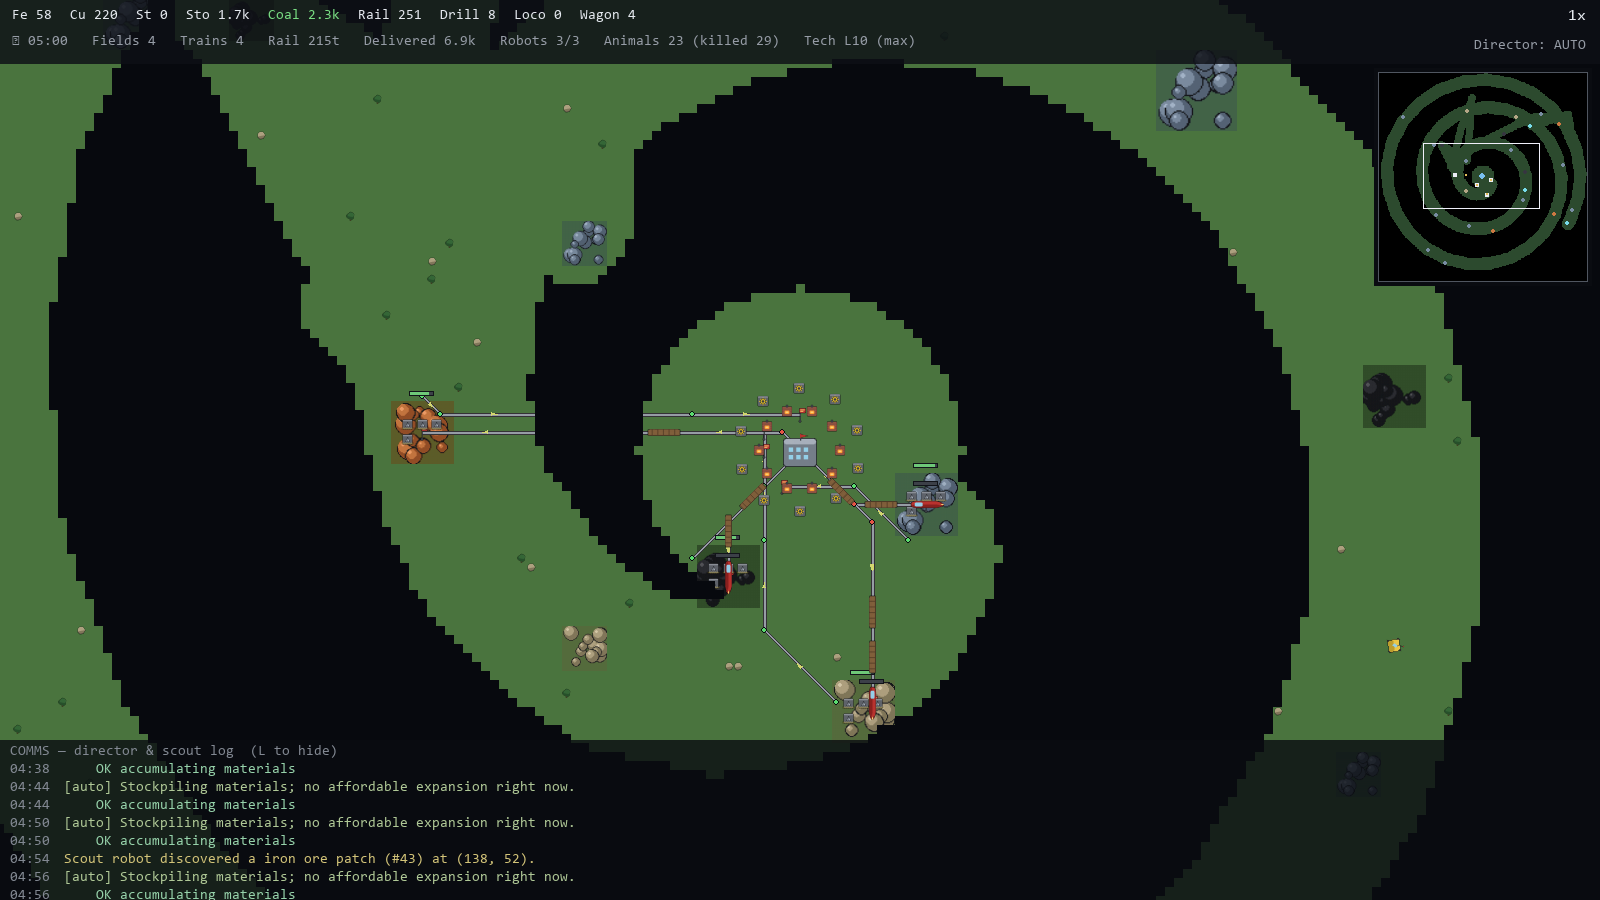
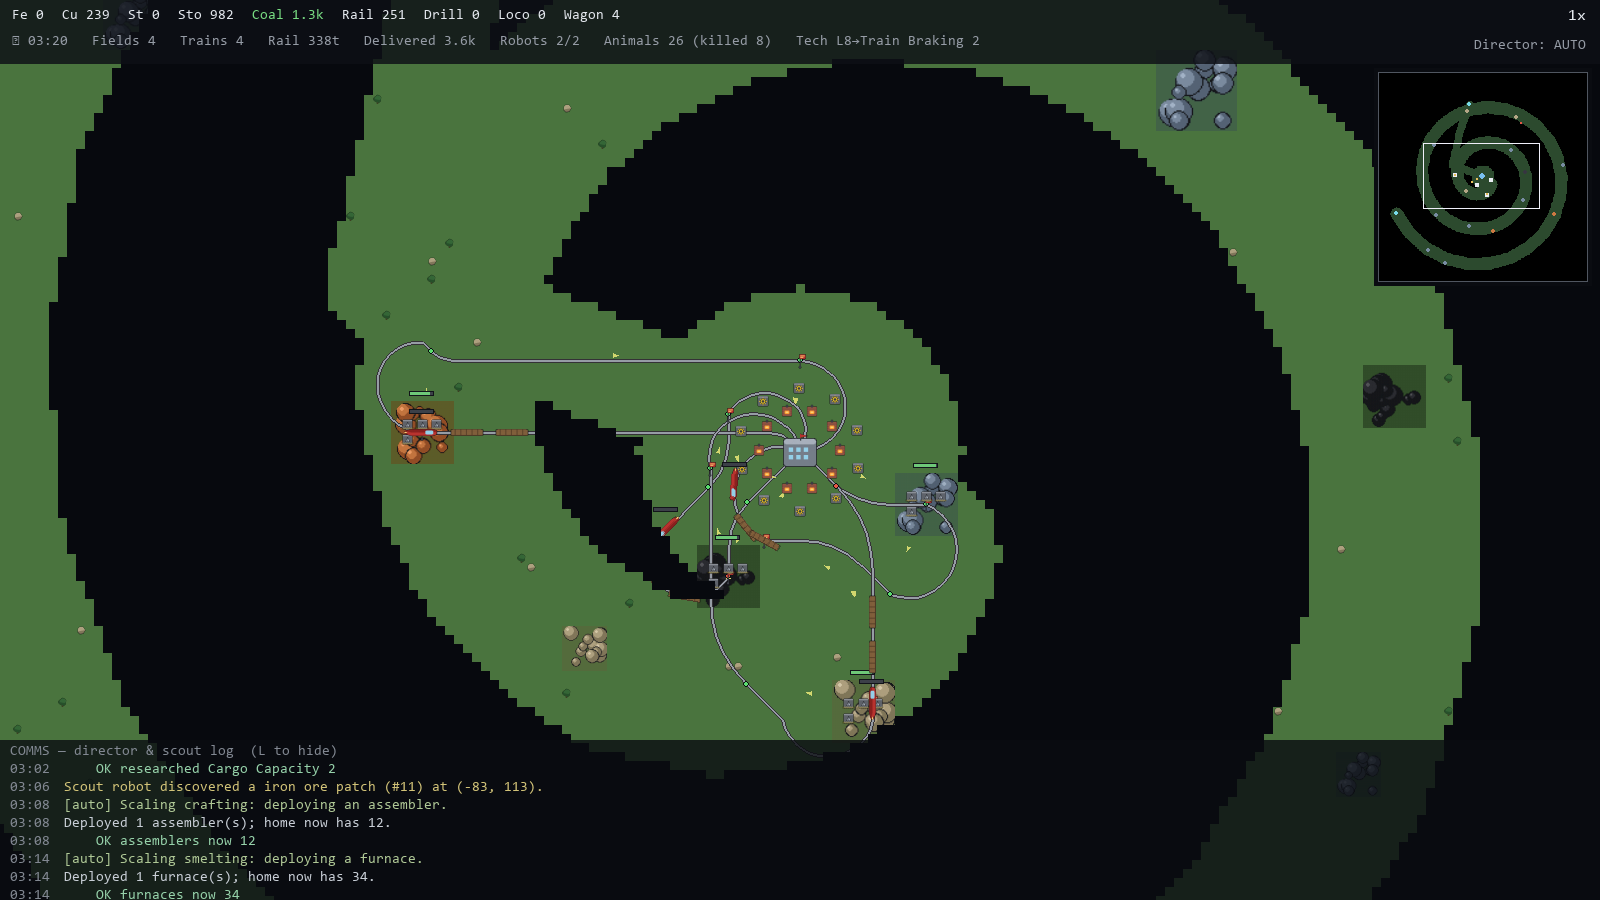
Smooth curved rail: rounded corners + wide U-turn loops, continuous flow
Trains were snapping direction at hard lattice corners and teleporting between
the out/return lanes. Now each field link is one continuous smooth loop:
- All corners are filleted with quadratic Beziers (CURVE_RADIUS, no sharp angles).
- The two one-way lanes are joined by 180-degree arc U-turns at the field and at
  home (LANE_OFFSET widened to 10 so the loops are gentle), with tangents aligned
  to the lanes.
- Leg A = home U-turn + out lane (ends at the load stop); leg B = field U-turn +
  return lane (ends at the unload stop). Leg B starts exactly where leg A ends and
  vice-versa, so motion is continuous - no teleport, no instant facing change.

Rail edges now carry dense curved polylines (rail._add_edge_poly /
_polyline_to_edges split a smooth polyline into per-edge blocks). The train
follower interpolates along the fine polyline, so position AND heading vary
smoothly; cars articulate around the bends. Block-mutex collision model unchanged.

18 tests pass (trains still deliver through the curved loops). Refreshed screenshot.

diff --git a/autofactorio/engine/rail.py b/autofactorio/engine/rail.py
@@ -128,26 +128,32 @@ class RailNetwork:
         # compress collinear runs into corners
         return _corners(pts)
 
-    def _build_lane(self, waypoints: list[tuple[int, int]]) -> list[int]:
-        """Create directed edges along corners, split so no edge exceeds the
-        signal spacing (keeps blocks train-length-bounded). Returns edge ids."""
+    def _add_edge_poly(self, a: int, b: int, points: list[tuple[float, float]]) -> int:
+        pts = [tuple(map(float, p)) for p in points]
+        length = sum(math.dist(pts[i - 1], pts[i]) for i in range(1, len(pts)))
+        eid = self._eid
+        self._eid += 1
+        self.edges[eid] = RailEdge(eid, a, b, pts, length)
+        self.out_edges[a].append(eid)
+        return eid
+
+    def _polyline_to_edges(self, poly: list[tuple[float, float]]) -> list[int]:
+        """Chop a dense (possibly curved) polyline into directed edges of about
+        SIGNAL_SPACING arc-length, one block per edge. Returns edge ids."""
         edge_ids: list[int] = []
-        max_len = float(balance.SIGNAL_SPACING)
-        prev_node = self.add_node(*waypoints[0])
-        for i in range(1, len(waypoints)):
-            x0, y0 = self.nodes[prev_node]
-            x1, y1 = waypoints[i]
-            seg_len = math.dist((x0, y0), (x1, y1))
-            steps = max(1, int(math.ceil(seg_len / max_len)))
-            for s in range(1, steps + 1):
-                t = s / steps
-                nx = _snap(round(x0 + (x1 - x0) * t), balance.RAIL_GRID)
-                ny = _snap(round(y0 + (y1 - y0) * t), balance.RAIL_GRID)
-                nxt = self.add_node(nx, ny)
-                if nxt == prev_node:
-                    continue
-                edge_ids.append(self._add_edge(prev_node, nxt))
-                prev_node = nxt
+        start = self.add_node(*poly[0])
+        chunk = [poly[0]]
+        acc = 0.0
+        for i in range(1, len(poly)):
+            acc += math.dist(poly[i - 1], poly[i])
+            chunk.append(poly[i])
+            if acc >= balance.SIGNAL_SPACING and i < len(poly) - 1:
+                end = self.add_node(*poly[i])
+                edge_ids.append(self._add_edge_poly(start, end, chunk))
+                start, chunk, acc = end, [poly[i]], 0.0
+        if len(chunk) >= 2:
+            end = self.add_node(*poly[-1])
+            edge_ids.append(self._add_edge_poly(start, end, chunk))
         return edge_ids
 
     def _signalize(self, edge_ids: list[int], chain_at_start: bool = False) -> None:
@@ -162,34 +168,44 @@ class RailNetwork:
             self.signals.setdefault(e.a, Signal(e.a, kind, self.node_pos(e.a)))
 
     def build_link(self, home: tuple[int, int], field_pt: tuple[int, int]):
-        """Build two one-way lanes between home and a field.
+        """Build one continuous, smooth, collision-free loop to a field.
 
-        Returns (out_edges, ret_edges, load_station, unload_station). The train
-        loop is: home -> out -> load(field) -> ret -> unload(home) -> repeat.
+        The loop has two one-way lanes joined by wide U-turns at each end, with all
+        corners rounded so trains never turn sharp or snap direction. Two legs:
+          A: home -> (home U-turn) -> out lane -> field   (ends at the LOAD stop)
+          B: field -> (field U-turn) -> return lane -> home (ends at the UNLOAD stop)
+        Because leg B starts exactly where leg A ends (and vice-versa), motion is
+        continuous - no teleport between legs.
+
+        Returns (legA_edges, legB_edges, load_station, unload_station).
         """
         g = balance.RAIL_GRID
-        # perpendicular offset so the return lane runs parallel to the outbound
         dx, dy = field_pt[0] - home[0], field_pt[1] - home[1]
         d = math.hypot(dx, dy) or 1.0
+        ux, uy = dx / d, dy / d                     # unit home->field
+        px, py = -uy, ux                            # perpendicular unit
         off = balance.LANE_OFFSET
-        px = _snap(round(-dy / d * off), g)
-        py = _snap(round(dx / d * off), g)
 
         home_a = (_snap(home[0], g), _snap(home[1], g))
         field_a = (_snap(field_pt[0], g), _snap(field_pt[1], g))
-        home_b = (home_a[0] + px, home_a[1] + py)
-        field_b = (field_a[0] + px, field_a[1] + py)
+        home_b = (_snap(home_a[0] + px * off, g), _snap(home_a[1] + py * off, g))
+        field_b = (_snap(field_a[0] + px * off, g), _snap(field_a[1] + py * off, g))
 
-        out_wp = self._lattice_path(home_a, field_a)
-        ret_wp = self._lattice_path(field_b, home_b)
-        out_edges = self._build_lane(out_wp)
-        ret_edges = self._build_lane(ret_wp)
-        self._signalize(out_edges, chain_at_start=True)
-        self._signalize(ret_edges, chain_at_start=True)
+        out_poly = _round_corners(self._lattice_path(home_a, field_a), balance.CURVE_RADIUS)
+        ret_poly = _round_corners(self._lattice_path(field_b, home_b), balance.CURVE_RADIUS)
+        field_uturn = _arc(field_a, field_b, (ux, uy))      # bulge beyond the field
+        home_uturn = _arc(home_b, home_a, (-ux, -uy))       # bulge behind home
+
+        legA_poly = home_uturn[:-1] + out_poly              # home_b -> home_a -> field_a
+        legB_poly = field_uturn[:-1] + ret_poly             # field_a -> field_b -> home_b
+        legA = self._polyline_to_edges(legA_poly)
+        legB = self._polyline_to_edges(legB_poly)
+        self._signalize(legA, chain_at_start=True)
+        self._signalize(legB, chain_at_start=True)
 
         load = self._add_station("load", field_a, kind="load")
         unload = self._add_station("unload", home_b, kind="unload", is_home=True)
-        return out_edges, ret_edges, load, unload
+        return legA, legB, load, unload
 
     def _add_station(self, base_name: str, pos: tuple[int, int], kind: str,
                      is_home: bool = False) -> Station:
@@ -241,6 +257,54 @@ class RailNetwork:
 
     def total_rail_length(self) -> float:
         return sum(e.length for e in self.edges.values())
+
+
+def _round_corners(pts, radius: float, step: float = 2.0):
+    """Fillet each interior corner with a quadratic Bezier (tangent to both
+    segments) so the polyline has no sharp angles. Trim distance is clamped to
+    half of each adjacent segment so consecutive fillets never overlap."""
+    pts = [tuple(map(float, p)) for p in pts]
+    if len(pts) < 3:
+        return pts
+    out = [pts[0]]
+    for i in range(1, len(pts) - 1):
+        ax, ay = pts[i - 1]
+        bx, by = pts[i]
+        cx, cy = pts[i + 1]
+        l1 = math.hypot(ax - bx, ay - by)
+        l2 = math.hypot(cx - bx, cy - by)
+        if l1 < 1e-6 or l2 < 1e-6:
+            out.append((bx, by))
+            continue
+        dd = min(radius, l1 * 0.5, l2 * 0.5)
+        p1 = (bx + (ax - bx) / l1 * dd, by + (ay - by) / l1 * dd)
+        p2 = (bx + (cx - bx) / l2 * dd, by + (cy - by) / l2 * dd)
+        out.append(p1)
+        n = max(2, int(dd * 2 / step))
+        for k in range(1, n):
+            t = k / n
+            mt = 1 - t
+            out.append((mt * mt * p1[0] + 2 * mt * t * bx + t * t * p2[0],
+                        mt * mt * p1[1] + 2 * mt * t * by + t * t * p2[1]))
+        out.append(p2)
+    out.append(pts[-1])
+    return out
+
+
+def _arc(p_from, p_to, bulge_unit, samples: int = 16):
+    """A 180-degree arc from p_from to p_to bulging toward `bulge_unit`. With the
+    two points offset perpendicular to the lane, the arc's tangents line up with
+    the lanes, giving a smooth turning loop."""
+    cx, cy = (p_from[0] + p_to[0]) * 0.5, (p_from[1] + p_to[1]) * 0.5
+    vfx, vfy = p_from[0] - cx, p_from[1] - cy        # radius vector at p_from
+    r = math.hypot(vfx, vfy)
+    bx, by = bulge_unit
+    pts = []
+    for k in range(samples + 1):
+        a = math.pi * k / samples
+        ca, sa = math.cos(a), math.sin(a)
+        pts.append((cx + vfx * ca + bx * r * sa, cy + vfy * ca + by * r * sa))
+    return pts
 
 
 def _snap(v: float, g: int) -> int:

diff --git a/autofactorio/balance.py b/autofactorio/balance.py
@@ -89,9 +89,10 @@ LOCO_START_FUEL = 3               # coal a freshly-built loco carries
 # ---------------------------------------------------------------------------
 # Rail network
 # ---------------------------------------------------------------------------
-RAIL_GRID = 2                      # rail nodes only on even tile coords
-LANE_OFFSET = 4                    # perpendicular gap between the two one-way lanes (tiles)
-                                   # wide enough that trains on opposite lanes pass clear
+RAIL_GRID = 2                      # rail nodes snap to even tile coords on straights
+LANE_OFFSET = 10                   # gap between the two one-way lanes (tiles); also the
+                                   # diameter of the U-turn loops, so trains never turn sharp
+CURVE_RADIUS = 6                   # corner-rounding radius (tiles); no sharp corners
 SIGNAL_SPACING = 16                # >= MAX_TRAIN_LEN; one block per this many tiles
 OCCUPANCY_PENALTY = 1000           # added to route cost for a locked block
 